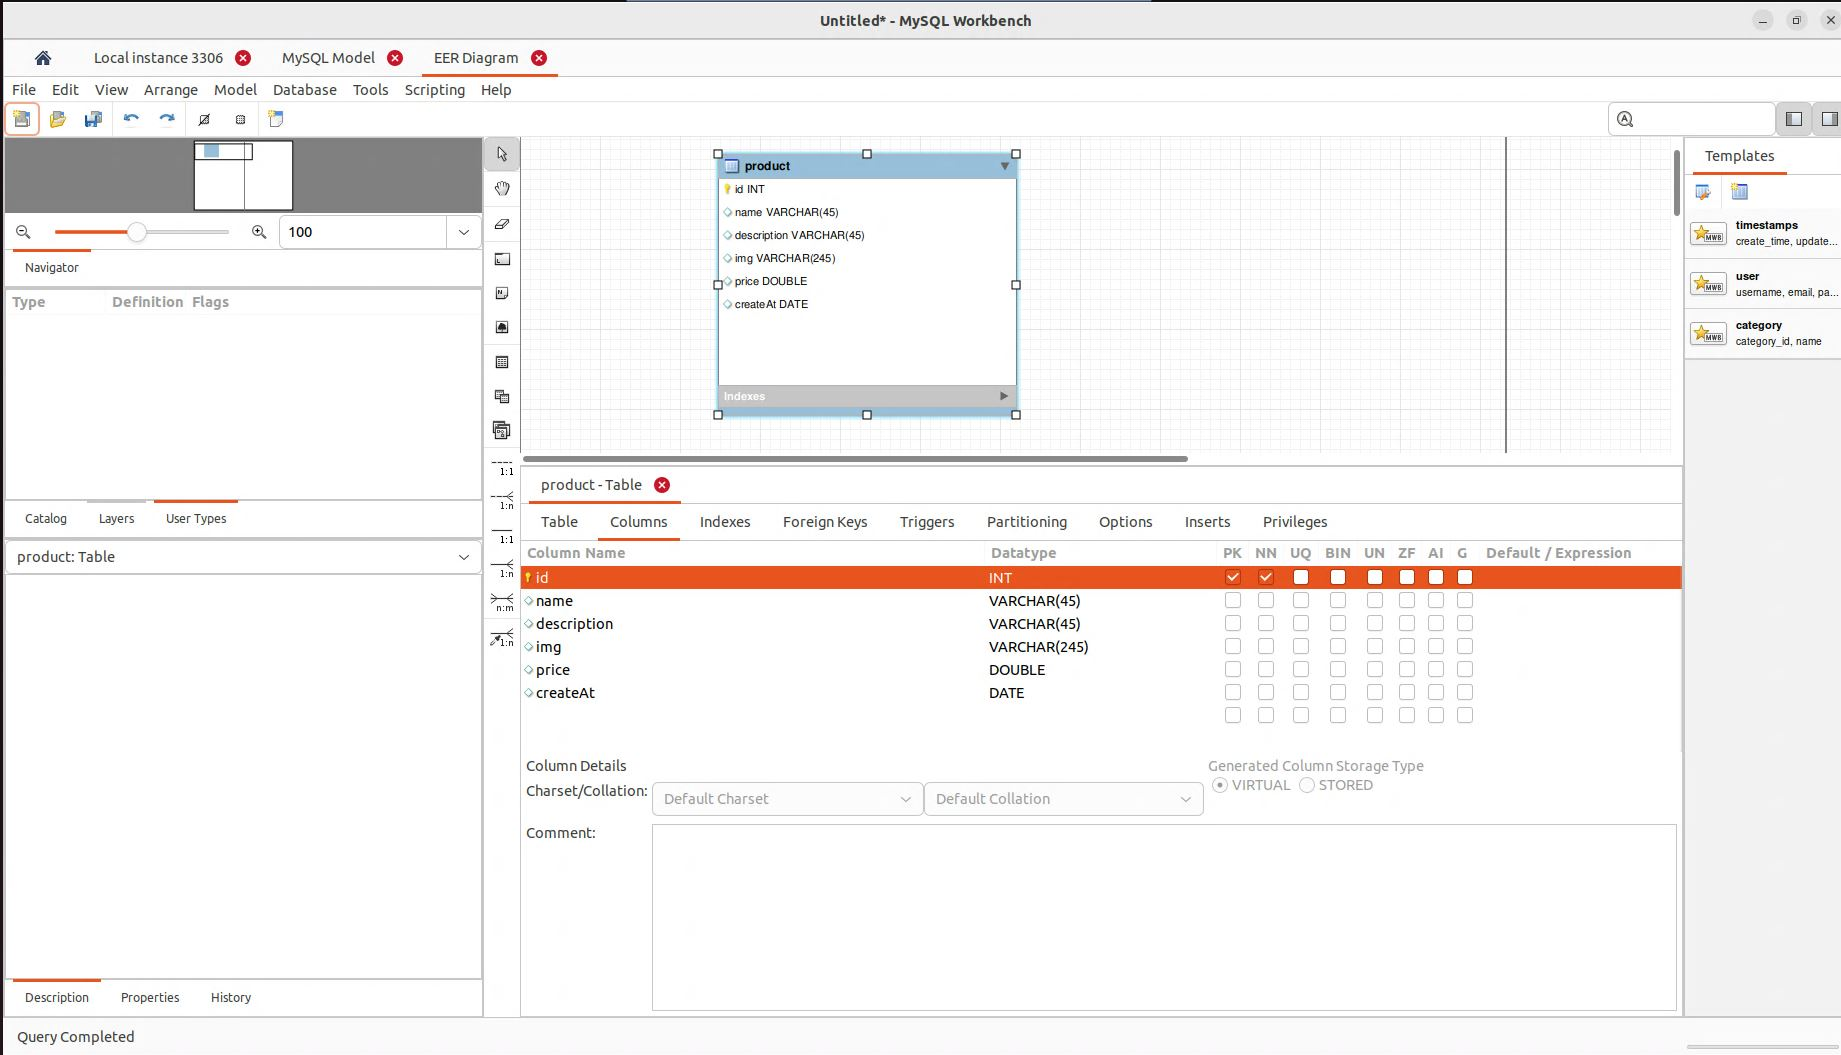
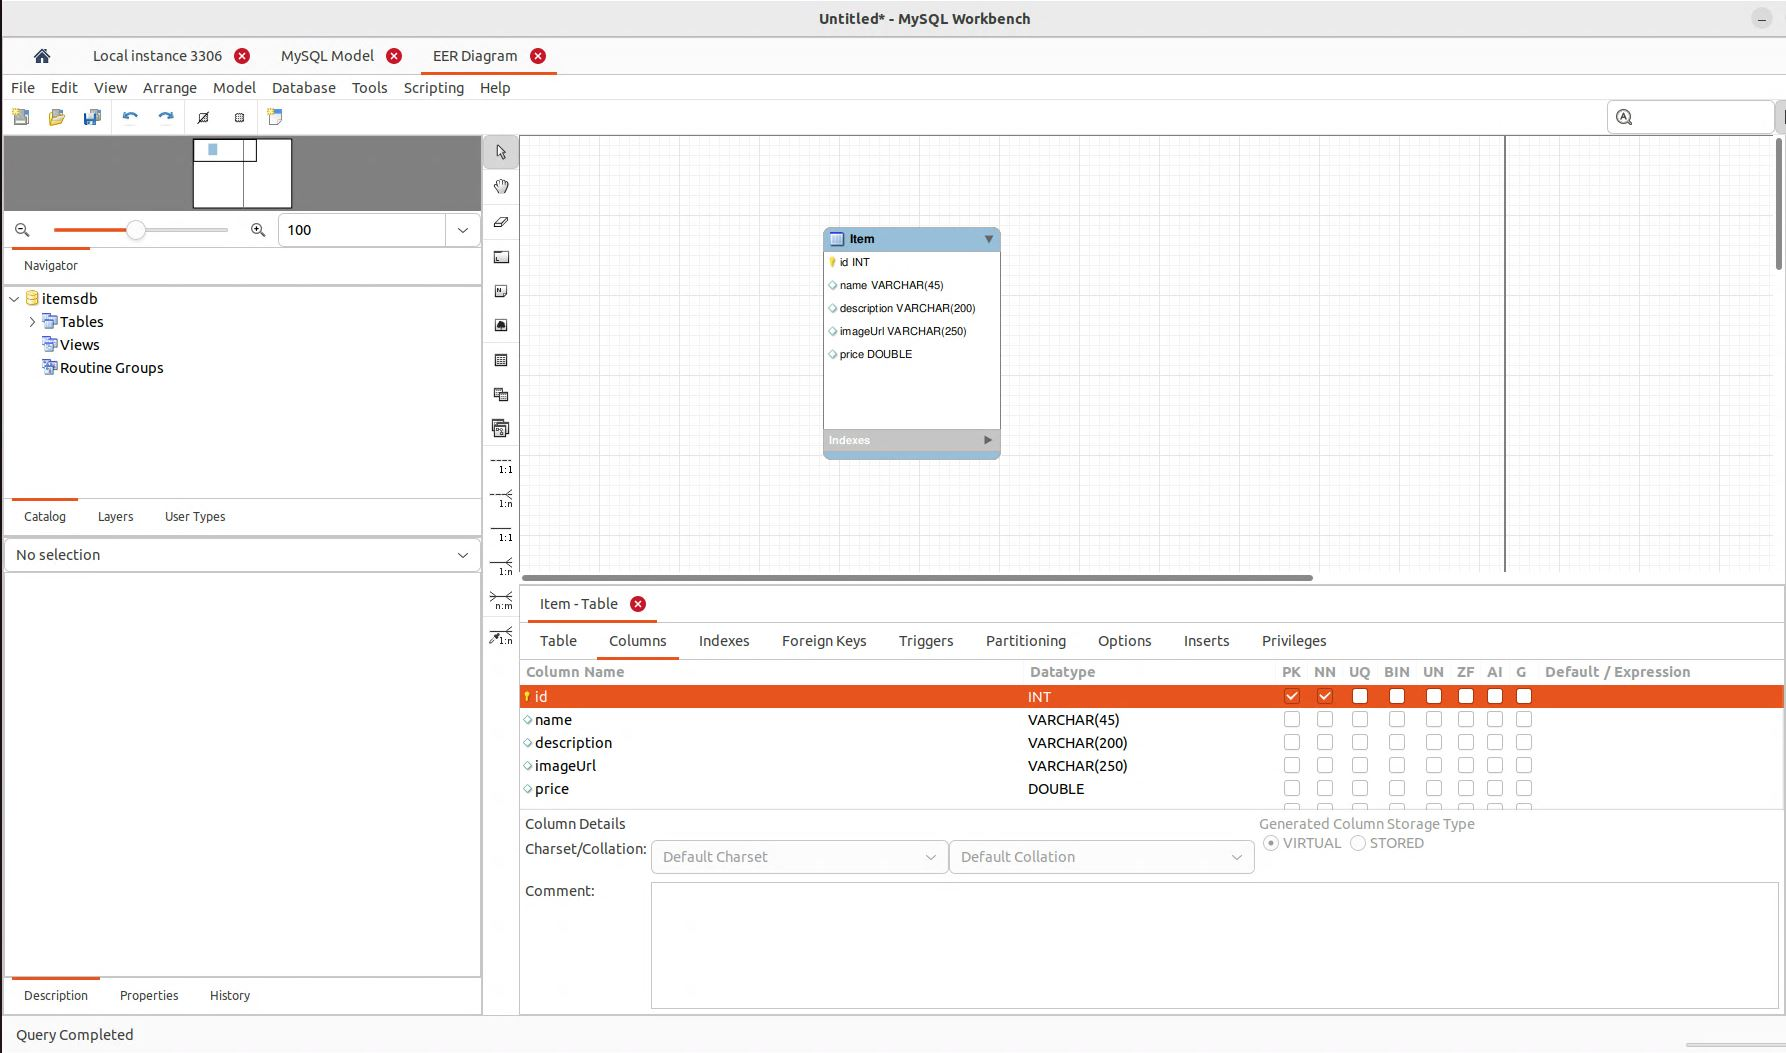
revise task 7 and task 8 from product to item

diff --git a/src/main/java/com/ecommerce/kidclothing/repository/entity/Item.java b/src/main/java/com/ecommerce/kidclothing/repository/entity/Item.java
@@ -1,10 +1,14 @@
 package com.ecommerce.kidclothing.repository.entity;
 
-import jakarta.persistence.*;
+import jakarta.persistence.Entity;
+import jakarta.persistence.GeneratedValue;
+import jakarta.persistence.GenerationType;
+import jakarta.persistence.Id;
 
 @Entity
-@Table(name = "product")
-public class Product {
+
+public class Item
+{
     @Id
     @GeneratedValue(strategy= GenerationType.AUTO)
     private Integer id;
@@ -13,10 +17,9 @@ public class Product {
 
     private String description;
 
-    private String img;
+    private String imageUrl;
+
     private Double price;
-
-
 
     public Integer getId()
     {
@@ -48,14 +51,14 @@ public class Product {
         this.description = description;
     }
 
-    public String getImg()
+    public String getImageUrl()
     {
-        return img;
+        return imageUrl;
     }
 
-    public void setImg( String img )
+    public void setImageUrl( String imageUrl )
     {
-        this.img = img;
+        this.imageUrl = imageUrl;
     }
 
     public Double getPrice() {

diff --git a/src/main/java/com/ecommerce/kidclothing/controller/ItemController.java b/src/main/java/com/ecommerce/kidclothing/controller/ItemController.java
@@ -1,0 +1,25 @@
+package com.ecommerce.kidclothing.controller;
+
+import com.ecommerce.kidclothing.repository.ItemRepository;
+import com.ecommerce.kidclothing.repository.entity.Item;
+import org.springframework.beans.factory.annotation.Autowired;
+import org.springframework.web.bind.annotation.GetMapping;
+import org.springframework.web.bind.annotation.RequestMapping;
+import org.springframework.web.bind.annotation.RestController;
+
+@RestController
+@RequestMapping("/item")
+public class ItemController {
+    final ItemRepository itemRepository;
+
+
+    public ItemController(@Autowired ItemRepository itemRepository )
+    {
+        this.itemRepository = itemRepository;
+    }
+
+    @GetMapping
+    public Iterable<Item> getItems(){
+        return itemRepository.findAll();
+    }
+}

diff --git a/src/main/java/com/ecommerce/kidclothing/repository/ItemRepository.java b/src/main/java/com/ecommerce/kidclothing/repository/ItemRepository.java
@@ -1,0 +1,6 @@
+package com.ecommerce.kidclothing.repository;
+import com.ecommerce.kidclothing.repository.entity.Item;
+import org.springframework.data.jpa.repository.JpaRepository;
+
+public interface ItemRepository extends JpaRepository<Item, Integer>{
+}
